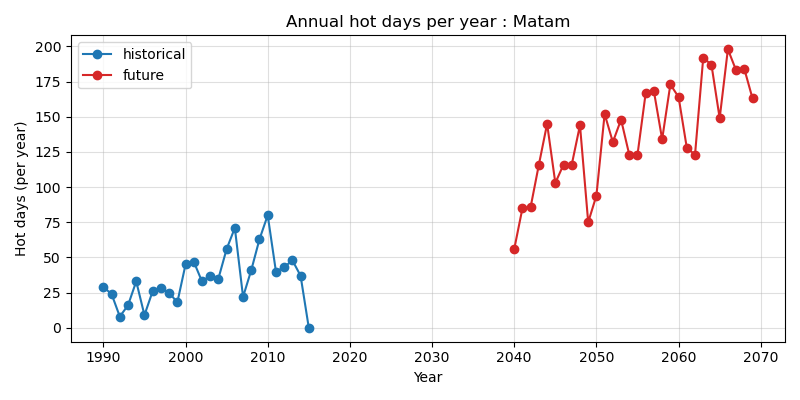
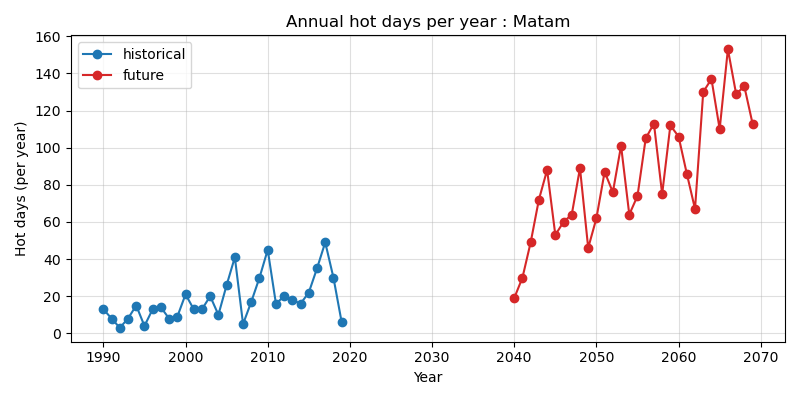
extended historical period to 2019

diff --git a/scripts/02_statistical_analysis_climate_periods.py b/scripts/02_statistical_analysis_climate_periods.py
@@ -28,13 +28,13 @@ df["hour"]  = df["time"].dt.hour
 # SPLIT PERIODS
 # ============================================================
 df_hist = df[
-    (df["period"] == "historical") &
+    #(df["period"] == "historical") &
     (df["time"] >= HIST_START) &
     (df["time"] <= HIST_END)
 ]
 
 df_fut = df[
-    (df["period"] == "ssp585") &
+    #(df["period"] == "ssp585") &
     (df["time"] >= FUT_START) &
     (df["time"] <= FUT_END)
 ]
@@ -87,7 +87,7 @@ def compute_extremes(df, label):
 
 # ============================================================
 # HOT DAYS & HEATWAVES (percentile-based)
-# hot day: daily maximum > historical 90th percentile
+# hot day: daily maximum > historical 95th percentile
 # heatwave: >= 3 consecutive hot days
 # ============================================================
 def compute_hotdays_and_heatwaves(df_period, df_hist, label, percentile=95, min_duration=3):
@@ -174,11 +174,11 @@ print("Running historical climate statistics...")
 compute_statistics(df_hist, "historical_1990_2019")
 compute_extremes(df_hist, "historical_1990_2019")
 # hot days & heatwaves using historical baseline thresholds
-compute_hotdays_and_heatwaves(df_hist, df_hist, "historical_1990_2019", percentile=90, min_duration=3)
+compute_hotdays_and_heatwaves(df_hist, df_hist, "historical_1990_2019", percentile=95, min_duration=3)
 
 print("Running future climate statistics...")
 compute_statistics(df_fut, "future_2040_2069_ssp585")
 compute_extremes(df_fut, "future_2040_2069_ssp585")
-compute_hotdays_and_heatwaves(df_fut, df_hist, "future_2040_2069_ssp585", percentile=90, min_duration=3)
+compute_hotdays_and_heatwaves(df_fut, df_hist, "future_2040_2069_ssp585", percentile=95, min_duration=3)
 
 print("✅ Statistical analysis completed successfully")

diff --git a/scripts/heatwaves.py b/scripts/heatwaves.py
@@ -92,8 +92,15 @@ def main():
 		df["tas"] = df["tas"] - 273.15
 
 	# split periods
-	df_hist = df[(df["period"] == "historical") & (df["time"] >= HIST_START) & (df["time"] <= HIST_END)].copy()
-	df_fut = df[(df["period"] == "ssp585") & (df["time"] >= FUT_START) & (df["time"] <= FUT_END)].copy()
+	df_hist = df[
+		#(df["period"] == "historical") &
+		(df["time"] >= HIST_START) &
+		(df["time"] <= HIST_END)].copy()
+	df_fut = df[
+		#(df["period"] == "ssp585") &
+		(df["time"] >= FUT_START) &
+		(df["time"] <= FUT_END)
+	].copy()
 
 	# compute daily maxima per zone
 	hist_daily_all = (
